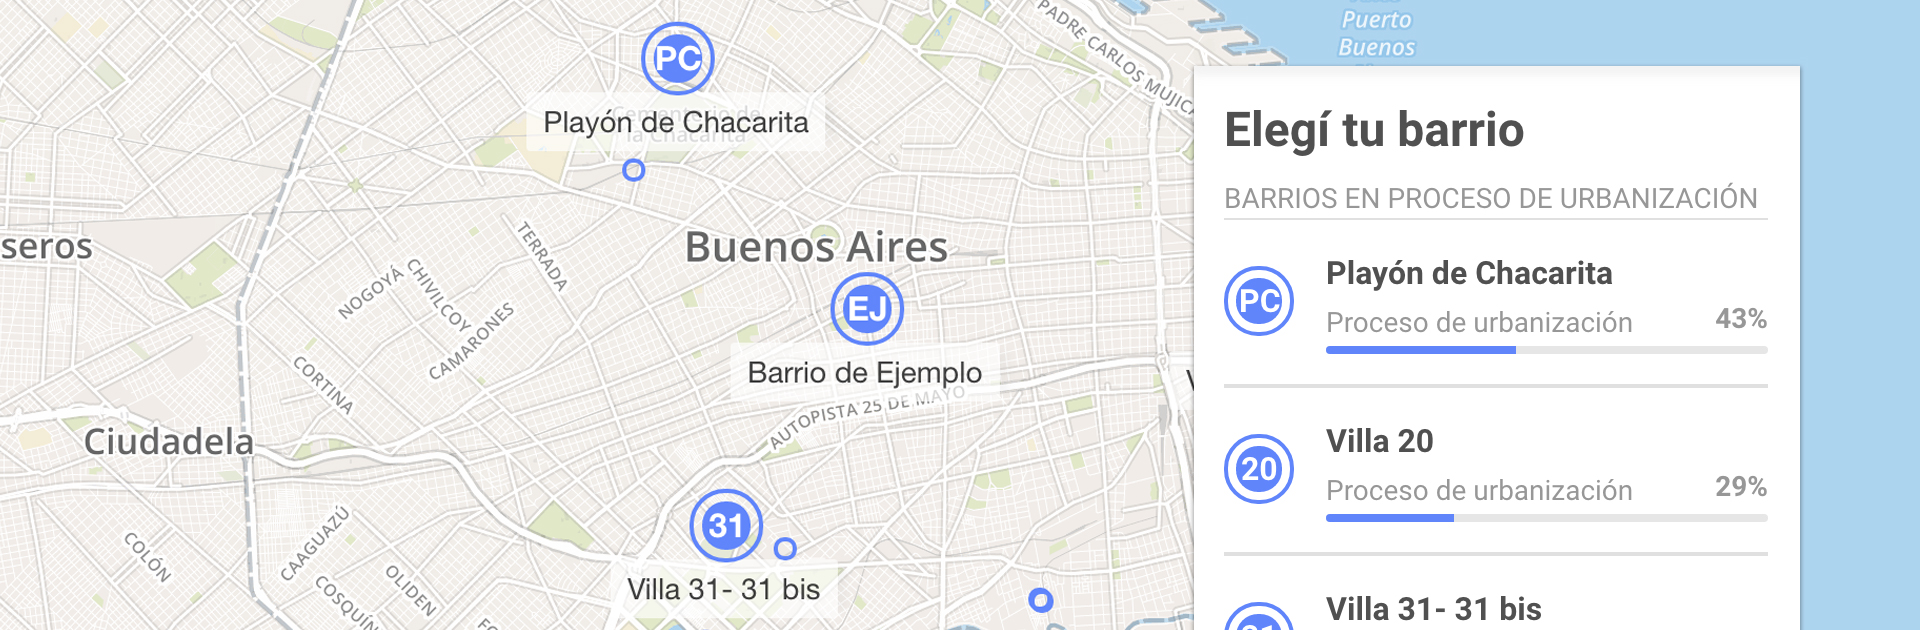
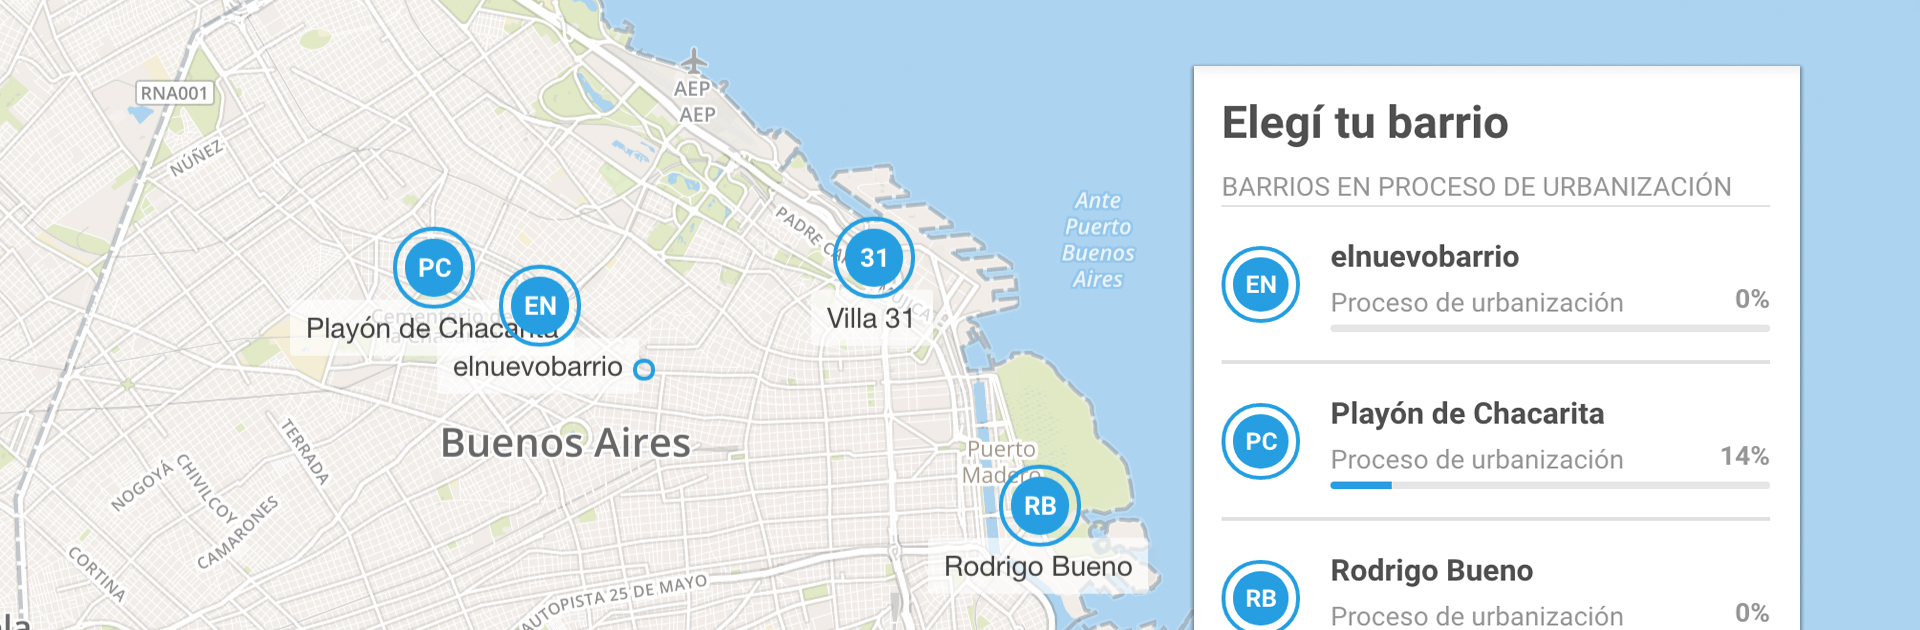
Cambiar las imagens de la landing [ch161]

diff --git a/app/assets/stylesheets/views/home/index.scss b/app/assets/stylesheets/views/home/index.scss
@@ -76,6 +76,19 @@
           }
         }
       }
+      > section:last-of-type {
+        > div {
+          height: 500px;
+          > img {
+            height: auto;
+            margin-top: 10px;
+            width: 100vw;
+          }
+          > i {
+            top: -27px;
+          }
+        }
+      }
       > section:first-of-type {
         font-family: 'Roboto Slab';
         > div:first-of-type {
@@ -330,6 +343,20 @@
             }
           }
         }
+        > section:last-of-type {
+          height: 730px;
+          > div {
+            height: 260px;
+            > img {
+              height: auto;
+              margin-top: 10px;
+              width: 100vw;
+            }
+            > i {
+              top: -27px;
+            }
+          }
+        }
         > section:first-of-type {
           > div:first-of-type {
             > div {
@@ -441,24 +468,178 @@
             }
           }
         }
-        > section ~ section:nth-of-type(even) {
+        > section ~ section:nth-of-type(1) {
           > div {
+            @include small-diagonal-right-up;
+            position: relative;
             > img {
-              height: 370px;
+              margin: 0 #{-$gutter*3};
               position: relative;
-              transform: translateX(-50%);
-              width: auto;
+              vertical-align: top;
+              width: calc(100% + #{$gutter*6});
+              z-index: -3;
+            }
+            > i {
+              left: $gutter;
+              &:before {
+                transform: rotateZ(-41deg) translateY(-76px) translateX(-10px);
+              }
             }
           }
         }
-        > section ~ section:nth-of-type(odd) {
+        > section ~ section:nth-of-type(2) {
+          > div {
+            @include small-diagonal-right-up;
+            height: auto;
+            position: relative;
+            > img {
+              margin: 0 #{-$gutter*3};
+              position: relative;
+              vertical-align: top;
+              width: calc(100% + #{$gutter*6});
+              z-index: -3;
+            }
+            > i {
+              left: $gutter;
+              &:before {
+                transform: rotateZ(-41deg) translateY(-76px) translateX(-10px);
+              }
+            }
+          }
+        }
+        > section:last-of-type {
+          height: 610px;
+        }
+        > section:first-of-type {
+          > div:first-of-type {
+            > div {
+              float: none !important;
+              position: static !important;
+              width: 100% !important;
+              > a {
+                margin: $gutter*4 $gutter*2 $gutter*4 !important;
+                max-width: 100%;
+                width: auto;
+                > p {
+                }
+              }
+              > div {
+                padding: $gutter*2;
+                position: static !important;
+                transform: none !important;
+                > a {
+                  margin: $gutter auto !important;
+                  > p {
+                  }
+                }
+              }
+            }
+          }
+          > div:last-of-type {
+            > p {
+              text-align: left;
+              @include type-setting(0);
+              & + p {
+              }
+            }
+          }
+        }
+        > footer {
+          > div {
+            float: none;
+            width: 100%;
+            > a {
+              text-align: center;
+              > img {
+                float: none;
+                margin: 0 auto;
+                max-width: 300px;
+                width: 80%;
+              }
+              > span {
+
+              }
+            }
+          }
+          > div:last-of-type {
+            text-align: center;
+            width: 100%;
+            > a {
+              > img {
+                float: none;
+                margin: 0 auto;
+                margin-bottom: $gutter*3;
+                max-width: 300px;
+                width: 80%;
+              }
+              &:first-of-type {
+              }
+            }
+          }
+        }
+        > section + section {
+          > header {
+            > h1 {
+              @include type-setting(4);
+              &:before, &:after {
+              }
+              &:before {
+              }
+              &:after {
+              }
+            }
+          }
+          > p {
+          }
           > div {
             > img {
-              height: 370px;
-              position: relative;
-              transform: translateX(-50%);
-              width: auto;
             }
+          }
+        }
+      }
+    }
+  }
+
+  @media (max-width: 426px) {
+    > main {
+      > .main-section {
+        > nav {
+          > div:first-of-type {
+            > img {
+            }
+          }
+          > div:last-of-type {
+            > span {
+              @include type-setting(0);
+              > span {
+              }
+            }
+          }
+        }
+        > section ~ section:nth-of-type(1) {
+          > div {
+            > img {
+            }
+            > i {
+              &:before {
+              }
+            }
+          }
+        }
+        > section ~ section:nth-of-type(2) {
+          > div {
+            > img {
+            }
+            > i {
+              &:before {
+              }
+            }
+          }
+        }
+        > section:last-of-type {
+          height: 680px;
+          > div {
+            height: 140px;
           }
         }
         > section:first-of-type {
@@ -551,6 +732,7 @@
     }
   }
 }
+
 
 @mixin diagonal-left {
   &:before {

diff --git a/app/cells/elements/map_references/map_references.scss b/app/cells/elements/map_references/map_references.scss
@@ -63,17 +63,17 @@
     }
   }
   p.reference-marker {
+    @include transform(translate3d(-50%, -50%, 0));
     border: $border solid $blue;
     border-radius: 100%;
     box-sizing: content-box;
     display: inline-block;
+    font-family: $font-sans;
     height: $outer-diameter;
-    margin: $gutter;
     margin: 0;
     position: absolute;
     vertical-align: middle;
     width: $outer-diameter;
-    @include transform(translate3d(-50%, -50%, 0));
     &::before {
       background-color: $blue;
       border-radius: 100%;
@@ -88,11 +88,12 @@
     > span {
       @include text-color($white, 1);
       @include transform(translate3d(-50%, -50%, 0));
-      @include type-setting(-2);
+      font-size: 13px;
       font-weight: bold;
       left: 50%;
       position: absolute;
-      top: calc(50% - 1px);
+      text-transform: uppercase;
+      top: 50%;
     }
     &.unurbanized {
       border: none;

diff --git a/app/assets/stylesheets/views/neighborhoods/index.scss b/app/assets/stylesheets/views/neighborhoods/index.scss
@@ -84,11 +84,12 @@
                         > span {
                           @include text-color($white, 1);
                           @include transform(translate3d(-50%, -50%, 0));
-                          @include type-setting(-2);
+                          font-size: 13px;
                           font-weight: bold;
                           left: 50%;
                           position: absolute;
-                          top: calc(50%);
+                          text-transform: uppercase;
+                          top: calc(50% + 1px);
                         }
                       }
                       > a > div {

diff --git a/app/assets/stylesheets/globals/_variables.scss b/app/assets/stylesheets/globals/_variables.scss
@@ -44,8 +44,8 @@ $development: true !default;
 
 // General Vars
 $border: 2px;
-$outer-diameter: 31px;
-$inner-diameter: round($outer-diameter * 0.75);
+$outer-diameter: 37px;
+$inner-diameter: round($outer-diameter * 0.78);
 
 // Mobile Vars
 $aside-height: 50px;
